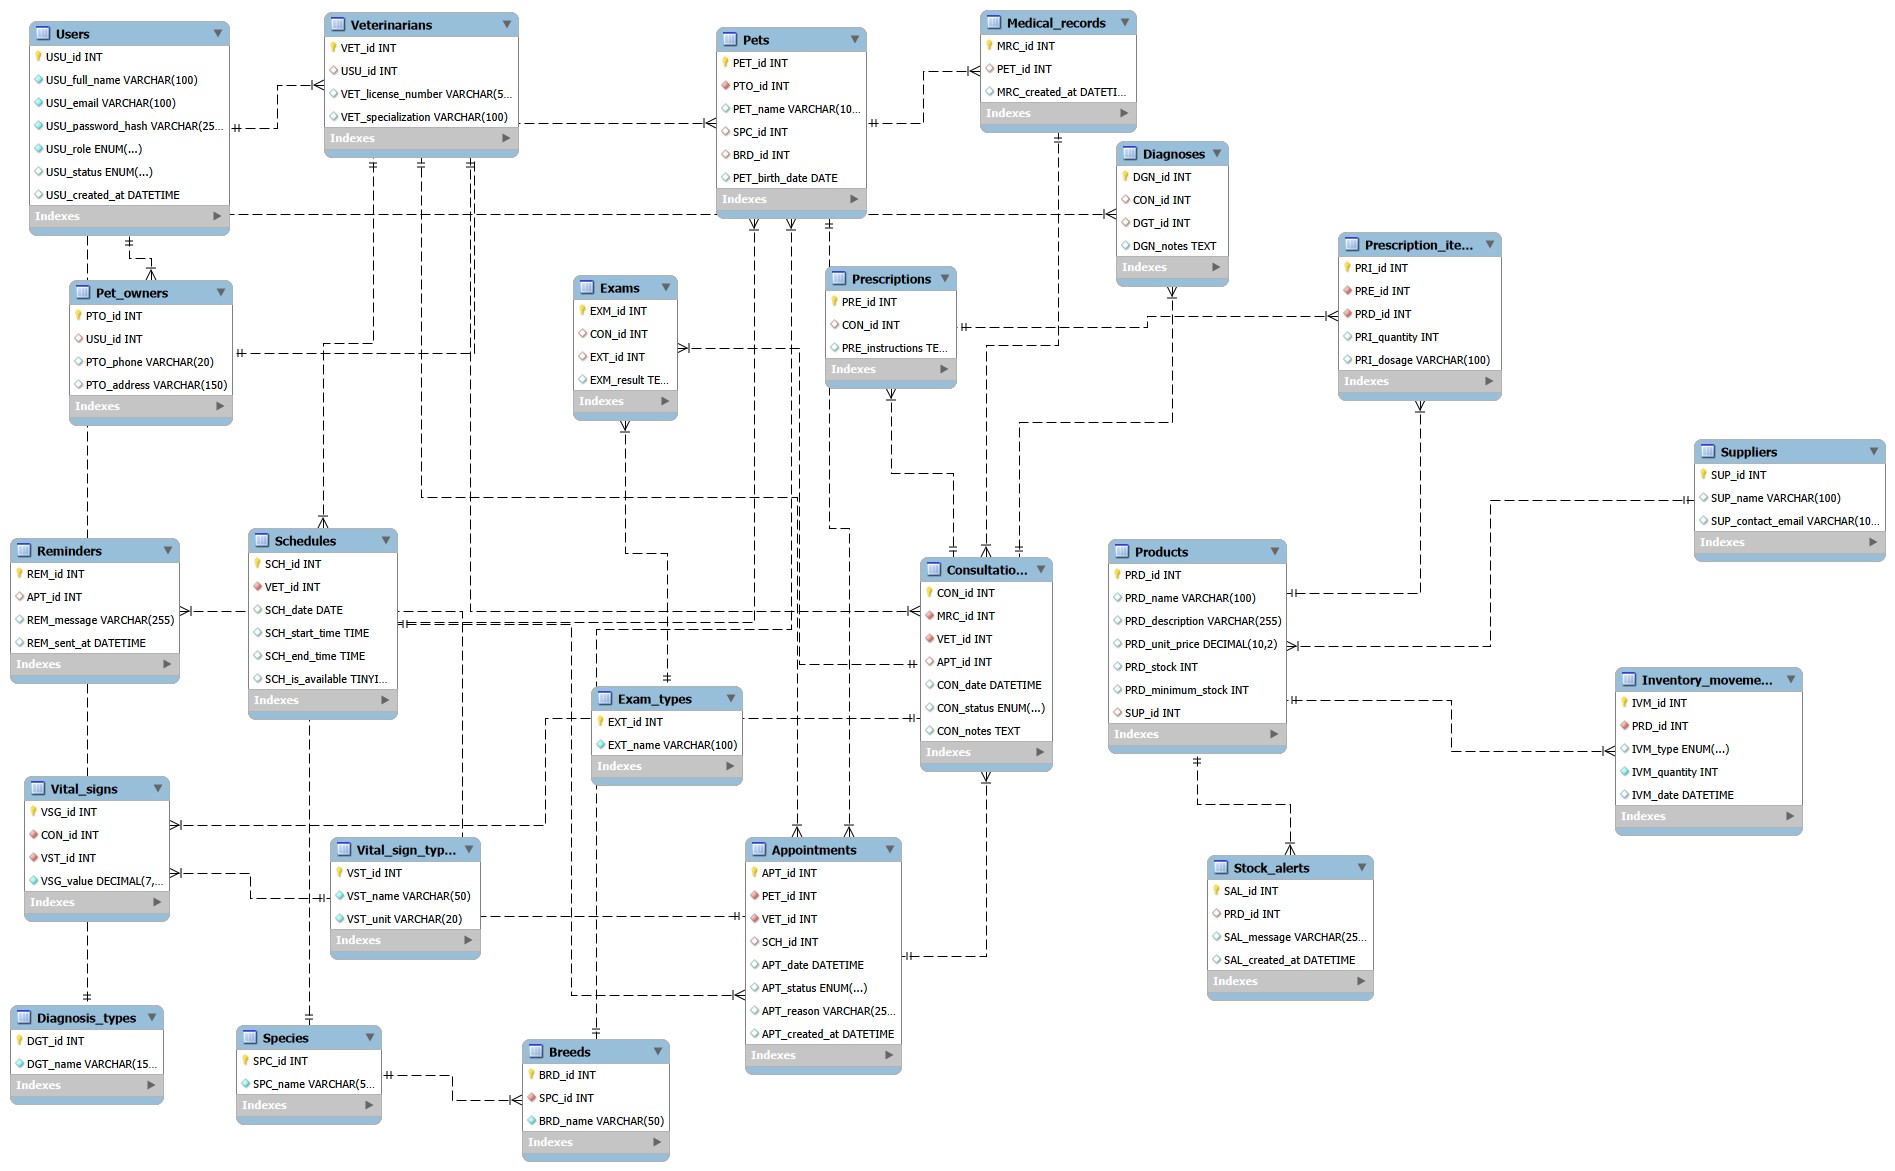
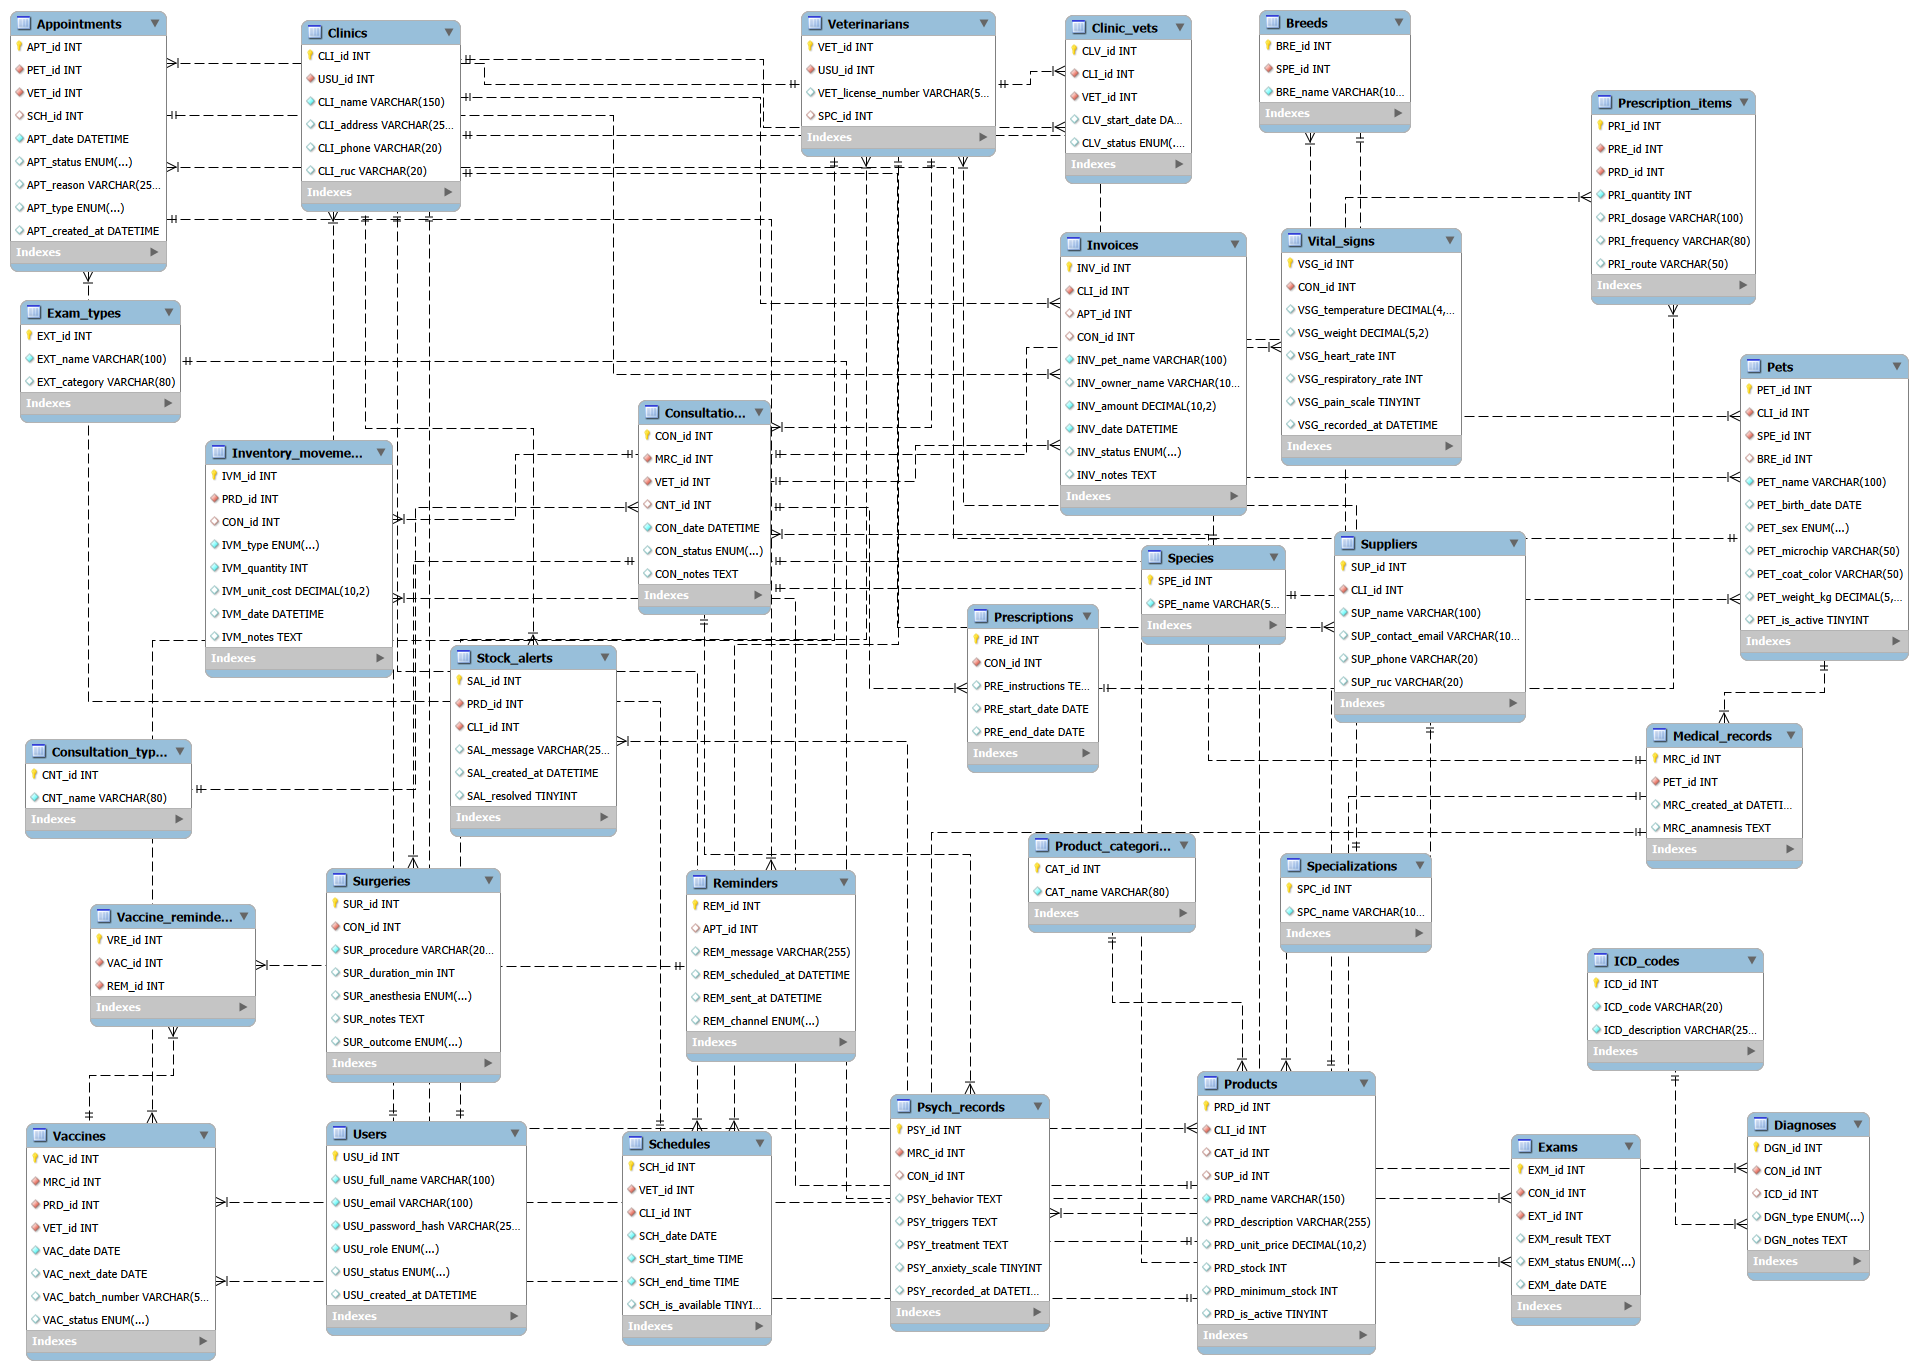
fix: correccion a class diagrams y database diagram

diff --git a/README.md b/README.md
@@ -2059,9 +2059,9 @@ Cada bounded context se estructura en capas (domain, application, infrastructure
 
 ### 4.7.1. Class Diagrams
 
-A continuación, se presentan los diagramas de clases UML para cada bounded context del sistema Pawtient. Estos diagramas describen las clases, sus atributos, métodos y relaciones, diferenciando además los componentes de frontend y backend.
+A continuación, se presentan los diagramas de clases UML para cada bounded context del sistema Pawtient. Estos diagramas describen las clases, sus atributos, métodos y relaciones, diferenciando los componentes de frontend y backend.
 
-Esta representación permite comprender la organización modular del sistema y la distribución de responsabilidades entre la interfaz de usuario y la lógica de negocio, asegurando coherencia con la arquitectura definida.
+Esta representación permite comprender la organización modular del sistema y la distribución de responsabilidades entre la interfaz de usuario y la lógica de negocio, asegurando coherencia con la arquitectura definida. El frontend está desarrollado en Vue.js con Pinia como manejador de estado, siguiendo una arquitectura en capas: domain, application, infrastructure y presentation. El backend está implementado en ASP .NET Core, organizando cada bounded context en entidades de dominio, comandos, servicios, repositorios y controladores REST.
 
 <br>
 
@@ -2069,31 +2069,31 @@ Esta representación permite comprender la organización modular del sistema y l
 
 <br>
 
-Este diagrama corresponde al Identity & Access Bounded Context, encargado de gestionar la autenticación y autorización de los usuarios dentro del sistema Pawtient. El agregado principal User administra la información esencial del usuario, incluyendo su identificador, correo electrónico, contraseña cifrada, rol y fecha de registro. Este contexto permite controlar el acceso al sistema mediante operaciones como registro, inicio de sesión y validación de credenciales. Además, el modelo considera diferentes roles (administrador, veterinario y dueño de mascota), los cuales determinan los permisos y funcionalidades disponibles dentro de la plataforma. En conjunto, este contexto garantiza la seguridad del sistema y el control adecuado de acceso a los recursos.
+Este diagrama corresponde al Identity & Access Bounded Context, encargado de gestionar la autenticación y autorización de los usuarios dentro del sistema Pawtient. La entidad principal User administra la información esencial del usuario, incluyendo su identificador, nombre, correo electrónico, contraseña, rol y plan de suscripción. El sistema contempla dos roles: administrador de clínica (`admin`) y veterinario independiente (`freelancer`), los cuales determinan las funcionalidades disponibles dentro de la plataforma. El flujo de registro incluye la selección de plan de suscripción como paso posterior al registro de cuenta.
 
 <br>
 <div align="center">
 
 **Frontend Components Diagrams**
 
-![Frontend Diagram BC1](pawtient-report/assets/images/class-diagrams/frontend/front-diagram-1.png)
+![Frontend Diagram BC1](pawtient-report/assets/images/class-diagrams/frontend/bc1-iam-frontend.png)
 
 </div>
 <br>
 
-El módulo IAM permite a los usuarios registrarse, iniciar sesión y gestionar su sesión activa. Incluye vistas como LoginView, RegisterView y ProfileView, junto con un AuthStore que maneja el estado de autenticación y la comunicación con la API mediante Observables.
+El módulo IAM en frontend permite a los usuarios registrarse, iniciar sesión y seleccionar su plan de suscripción. Incluye las vistas `LoginView`, `RegisterView` y `ChoosePlanView`, junto con los componentes `LoginForm` y `RegisterForm`. El `authStore` centraliza el estado de autenticación, gestiona la sesión mediante `localStorage` y coordina la comunicación con el backend a través de `AuthApi` y `UserAssembler`.
 
 <br>
 <div align="center">
 
 **Backend Components Diagrams**
 
-![Backend Diagram BC1](pawtient-report/assets/images/class-diagrams/backend/back-diagram-1.png)
+![Backend Diagram BC1](pawtient-report/assets/images/class-diagrams/backend/bc1-iam-backend.png)
 
 </div>
 <br>
 
-El módulo IAM gestiona la lógica de negocio relacionada con autenticación y control de acceso. Implementa comandos como registro e inicio de sesión, handlers para procesar dichas operaciones, repositorios para persistencia de usuarios y servicios de seguridad como generación de tokens JWT.
+El módulo IAM en backend gestiona la lógica de autenticación y control de acceso. Implementa comandos como `RegisterUserCommand` y `LoginUserCommand`, procesados por `AuthService`, que se encarga del hash de contraseñas y la generación de tokens JWT. El `UserRepository` gestiona la persistencia de usuarios mediante Entity Framework Core, y el `AuthController` expone los endpoints REST de registro, login, actualización de plan y eliminación de cuenta.
 
 <br>
 
@@ -2101,64 +2101,63 @@ El módulo IAM gestiona la lógica de negocio relacionada con autenticación y c
 
 <br>
 
-Este diagrama corresponde al contexto de gestión de citas, responsable de administrar la programación, modificación y cancelación de citas médicas para las mascotas. El agregado principal Appointment contiene información clave como la mascota asociada, el veterinario asignado, la fecha y el estado de la cita. Este contexto permite organizar la agenda de atención, asegurando un flujo ordenado de consultas dentro de la clínica. Además, el sistema contempla distintos estados de la cita (programada, cancelada, completada), lo que permite llevar un control preciso del ciclo de vida de cada atención.
-
-
-<br>
-<div align="center">
-
-**Frontend Components Diagrams**
-
-![Frontend Diagram BC2](pawtient-report/assets/images/class-diagrams/frontend/front-diagram-2.png)
-
-</div>
-<br>
-
-El módulo Appointments permite a los usuarios visualizar el calendario de citas, registrar nuevas citas y gestionar las existentes. Incluye componentes como AppointmentDashboard, AppointmentForm y AppointmentCard, junto con un AppointmentStore que gestiona el estado y sincroniza los datos con el backend.
-
-<br>
-<div align="center">
-
-**Backend Components Diagrams**
-
-![Backend Diagram BC2](pawtient-report/assets/images/class-diagrams/backend/back-diagram-2.png)
-
-</div>
-<br>
-
-El módulo Appointments gestiona la lógica de negocio relacionada con la programación de citas. Implementa comandos como creación y cancelación de citas, handlers para procesar estas acciones y repositorios para la persistencia de la información.
-
-<br>
-
-**2. Bounded Context: `Clinical Management`**
-
-<br>
-
-Este diagrama corresponde al contexto principal del sistema Pawtient, encargado de la gestión clínica de las mascotas. El agregado principal Pet representa al paciente veterinario, incluyendo información como nombre, especie, raza, fecha de nacimiento y su propietario. Este contexto incluye las entidades Consultation, que registra cada atención médica con diagnóstico y tratamiento, y MedicalRecord, que almacena el historial clínico completo de la mascota, incluyendo antecedentes, alergias y observaciones. En conjunto, este contexto permite centralizar toda la información médica del paciente, facilitando el seguimiento continuo de su estado de salud y la toma de decisiones clínicas.
+Este diagrama corresponde al contexto de gestión de citas, responsable de administrar la programación, modificación y cancelación de citas médicas para los pacientes. La entidad principal `Appointment` contiene información clave como el nombre de la mascota, el responsable, la fecha, la hora, el estado de la cita, el motivo de consulta y el monto asociado. El sistema contempla el estado `scheduled` como valor por defecto, permitiendo llevar un control preciso del ciclo de vida de cada atención y filtrar citas pendientes en tiempo real mediante propiedades computadas.
 
 <br>
 <div align="center">
 
 **Frontend Components Diagrams**
 
-![Frontend Diagram BC3](pawtient-report/assets/images/class-diagrams/frontend/front-diagram-3.png)
+![Frontend Diagram BC2](pawtient-report/assets/images/class-diagrams/frontend/bc2-appointments-frontend.png)
 
 </div>
 <br>
 
-El módulo Clinical Management permite a los usuarios gestionar mascotas, consultas y registros médicos. Incluye vistas como PetDashboardView, ConsultationView y MedicalRecordView, junto con componentes especializados como formularios y tarjetas. El estado es gestionado por ClinicStore, que coordina la comunicación con la API y mantiene sincronizados los datos clínicos.
+El módulo Appointments en frontend permite visualizar, registrar, editar y eliminar citas. El `appointmentsStore` gestiona el estado reactivo de las citas, expone la propiedad computada `pendingAppointments` para filtrar citas con estado `scheduled`, y coordina la comunicación con el backend a través de `AppointmentsApi` y `AppointmentAssembler`. La vista principal `ScheduleView` centraliza toda la interacción del usuario con la agenda.
 
 <br>
 <div align="center">
 
 **Backend Components Diagrams**
 
-![Backend Diagram BC3](pawtient-report/assets/images/class-diagrams/backend/back-diagram-3.png)
+![Backend Diagram BC2](pawtient-report/assets/images/class-diagrams/backend/bc2-appointments-backend.png)
 
 </div>
 <br>
 
-El módulo Clinical Management gestiona la lógica de negocio relacionada con pacientes, consultas y registros médicos. Implementa comandos como creación de consultas y actualización de historiales médicos, handlers para su procesamiento, servicios de consulta para recuperación de datos y repositorios para la persistencia de la información clínica.
+El módulo Appointments en backend gestiona la lógica de negocio relacionada con la programación de citas. Implementa los comandos `CreateAppointmentCommand` y `UpdateAppointmentCommand`, procesados por `AppointmentService`, que incluye la validación de disponibilidad de horarios. El `AppointmentRepository` gestiona la persistencia y el `AppointmentsController` expone los endpoints REST de consulta, creación, actualización y eliminación de citas.
+
+<br>
+
+**3. Bounded Context: `Clinical Management`**
+
+<br>
+
+Este diagrama corresponde al contexto principal de gestión clínica del sistema Pawtient. La entidad `Pet` representa al paciente veterinario, incluyendo nombre, tipo de especie, raza, edad y referencia al responsable. La entidad `Owner` almacena los datos de contacto del responsable de la mascota (nombre, DNI, teléfono) como dato administrativo sin acceso al sistema. Este contexto permite centralizar el registro y gestión de los pacientes de la clínica, facilitando el acceso rápido a su información durante cualquier consulta.
+
+<br>
+<div align="center">
+
+**Frontend Components Diagrams**
+
+![Frontend Diagram BC3](pawtient-report/assets/images/class-diagrams/frontend/bc3-clinic-frontend.png)
+
+</div>
+<br>
+
+El módulo Clinical Management en frontend permite registrar, editar y eliminar mascotas. El `clinicStore` gestiona el estado reactivo de los pacientes, filtrando siempre por `clinicId` del usuario activo, y coordina la comunicación con el backend a través de `ClinicApi` y `PetAssembler`. La vista `PatientsView` centraliza el listado de pacientes e incorpora el componente `PetCreateDialog`, que contiene el formulario `PetForm` para el registro detallado de mascotas.
+
+<br>
+<div align="center">
+
+**Backend Components Diagrams**
+
+![Backend Diagram BC3](pawtient-report/assets/images/class-diagrams/backend/bc3-clinic-backend.png)
+
+</div>
+<br>
+
+El módulo Clinical Management en backend gestiona la lógica de negocio relacionada con pacientes y sus responsables. Implementa los comandos `CreatePetCommand` y `UpdatePetCommand`, procesados por `PetService`. El `PetRepository` gestiona la persistencia de mascotas mediante Entity Framework Core, y el `PetsController` expone los endpoints REST de consulta, creación, actualización parcial (PATCH) y eliminación de pacientes.
 
 <br>
 
@@ -2166,31 +2165,31 @@ El módulo Clinical Management gestiona la lógica de negocio relacionada con pa
 
 <br>
 
-Este diagrama corresponde al contexto de gestión de inventario, encargado de administrar los productos, proveedores y movimientos de stock dentro de la clínica veterinaria. El agregado principal Product contiene información como nombre, descripción, precio y stock disponible. Además, el modelo incluye la entidad Supplier, que representa a los proveedores de insumos, y StockMovement, que registra las entradas y salidas de productos. Este contexto permite mantener un control preciso del inventario, evitando desabastecimientos y facilitando la gestión de recursos médicos.
+Este diagrama corresponde al contexto de gestión de inventario, encargado de administrar los productos e insumos médicos y los proveedores de la clínica. La entidad `Product` contiene nombre, stock actual, stock mínimo y precio, e incluye el método de dominio `isLowStock()` para detectar alertas de reabastecimiento. La entidad `Supplier` registra los datos de contacto y categoría de cada proveedor. Ambas entidades se filtran por `clinicId` para garantizar el aislamiento de datos entre clínicas.
 
 <br>
 <div align="center">
 
 **Frontend Components Diagrams**
 
-![Frontend Diagram BC4](pawtient-report/assets/images/class-diagrams/frontend/front-diagram-4.png)
+![Frontend Diagram BC4](pawtient-report/assets/images/class-diagrams/frontend/bc4-store-frontend.png)
 
 </div>
 <br>
 
-El módulo Store permite a los usuarios visualizar productos, registrar nuevos insumos y gestionar movimientos de inventario. Incluye vistas como InventoryDashboardView, ProductFormView y StockMovementView, junto con componentes reutilizables y un InventoryStore que maneja el estado de los productos y movimientos.
+El módulo Store en frontend gestiona dos recursos independientes: productos e inventario, y proveedores. El `storeStore` centraliza el estado de ambos recursos y coordina la comunicación con el backend a través de `StoreApi`, `ProductAssembler` y `SupplierAssembler`. Las vistas `InventoryView` y `SuppliersView` permiten visualizar, crear, editar y eliminar productos y proveedores respectivamente, con soporte para alertas visuales de stock bajo basadas en el método `isLowStock()`.
 
 <br>
 <div align="center">
 
 **Backend Components Diagrams**
 
-![Backend Diagram BC4](pawtient-report/assets/images/class-diagrams/backend/back-diagram-4.png)
+![Backend Diagram BC4](pawtient-report/assets/images/class-diagrams/backend/bc4-store-backend.png)
 
 </div>
 <br>
 
-El módulo Store gestiona la lógica de negocio relacionada con productos y control de inventario. Implementa comandos como creación de productos y registro de movimientos, handlers correspondientes y repositorios para la persistencia de datos.
+El módulo Store en backend gestiona la lógica de negocio de inventario y proveedores en servicios independientes. `ProductService` implementa la detección de stock bajo mediante `GetLowStockAlerts`, mientras que `SupplierService` gestiona el ciclo de vida completo de proveedores. Cada servicio cuenta con su propio repositorio (`ProductRepository`, `SupplierRepository`) y controlador REST (`ProductsController`, `SuppliersController`), manteniendo una separación clara de responsabilidades.
 
 <br>
 
@@ -2198,31 +2197,31 @@ El módulo Store gestiona la lógica de negocio relacionada con productos y cont
 
 <br>
 
-Este diagrama corresponde al contexto de reportes y gestión financiera, encargado de generar informes y controlar la facturación dentro del sistema. El agregado principal Report permite generar distintos tipos de reportes sobre el funcionamiento de la clínica, mientras que la entidad Billing gestiona la información financiera, incluyendo montos, fechas y transacciones. Este contexto permite obtener una visión global del rendimiento del negocio, facilitando la toma de decisiones estratégicas y el control económico.
+Este diagrama corresponde al contexto de reportes y facturación, encargado de consolidar la información financiera y operativa de la clínica. La entidad `ReportSummary` agrega los indicadores clave del negocio: ingresos totales, gastos de inventario, rentabilidad neta, alertas de stock bajo y número de citas atendidas. La entidad `InvoiceEntity` registra las boletas de pago asociadas a cada atención, con soporte para generación y descarga de PDF mediante la librería jsPDF.
 
 <br>
 <div align="center">
 
 **Frontend Components Diagrams**
 
-![Frontend Diagram BC5](pawtient-report/assets/images/class-diagrams/frontend/front-diagram-5.png)
+![Frontend Diagram BC5](pawtient-report/assets/images/class-diagrams/frontend/bc5-reports-frontend.png)
 
 </div>
 <br>
 
-El módulo Reports permite a los usuarios generar reportes y visualizar información financiera. Incluye vistas como ReportView y BillingView, junto con un ReportStore que gestiona los datos y coordina la comunicación con el backend.
+El módulo Reports en frontend consolida datos de múltiples bounded contexts para generar el reporte general de la clínica. El `reportsStore` combina información de citas e inventario para calcular el `ReportSummary`, gestiona el ciclo de vida de las boletas de pago y expone la función `downloadInvoicePdf` para la descarga de comprobantes en formato PDF. La vista `ReportsView` centraliza la visualización de KPIs y el historial de boletas.
 
 <br>
 <div align="center">
 
 **Backend Components Diagrams**
 
-![Backend Diagram BC5](pawtient-report/assets/images/class-diagrams/backend/back-diagram-5.png)
+![Backend Diagram BC5](pawtient-report/assets/images/class-diagrams/backend/bc5-reports-backend.png)
 
 </div>
 <br>
 
-El módulo Reports gestiona la lógica de negocio relacionada con la generación de reportes y facturación. Implementa comandos para la generación de reportes, handlers para su procesamiento y repositorios para el almacenamiento de la información.
+El módulo Reports en backend gestiona la generación de reportes financieros y el ciclo de vida de las boletas de pago. El `ReportService` consolida datos de citas e inventario para generar el `ReportSummary`, y gestiona la creación y eliminación de facturas a través del `InvoiceRepository`. El `ReportsController` expone endpoints REST para consultar el resumen general, listar boletas, registrar nuevos pagos y eliminar registros.
 
 <br>
 
@@ -2230,31 +2229,44 @@ El módulo Reports gestiona la lógica de negocio relacionada con la generación
 
 <br>
 
-Este diagrama corresponde al contexto de gestión de perfil de usuario, encargado de administrar la información personal de los usuarios dentro del sistema. El agregado principal Profile contiene datos como nombre, correo electrónico y la relación con el usuario del sistema. Este contexto permite a los usuarios actualizar su información personal y mantener sus datos actualizados dentro de la plataforma.
+Este diagrama corresponde al contexto de gestión de perfil de usuario, encargado de administrar la información personal de los profesionales registrados en el sistema. La entidad `Profile` almacena nombre, apellido, correo electrónico y dirección, derivada de campos separados (calle, número, ciudad) mediante lógica de dominio. Este contexto comparte el endpoint de usuarios con el bounded context IAM, dado que el perfil se construye sobre los datos del usuario autenticado.
 
 <br>
 <div align="center">
 
 **Frontend Components Diagrams**
 
-![Frontend Diagram BC6](pawtient-report/assets/images/class-diagrams/frontend/front-diagram-6.png)
+![Frontend Diagram BC6](pawtient-report/assets/images/class-diagrams/frontend/bc6-profiles-frontend.png)
 
 </div>
 <br>
 
-El módulo Profile permite a los usuarios visualizar y actualizar su información personal. Incluye la vista ProfileView y un ProfileStore que gestiona el estado del perfil y la comunicación con la API.
+El módulo Profile en frontend permite visualizar y actualizar la información personal del profesional activo. El `profilesStore` carga el perfil por correo electrónico y coordina la comunicación con el backend a través de `ProfilesApi` y `ProfileAssembler`. La vista `ProfileView` integra los componentes `ProfileDetails` para la visualización y `ProfileEditForm` para la edición de datos.
 
 <br>
 <div align="center">
 
 **Backend Components Diagrams**
 
-![Backend Diagram BC6](pawtient-report/assets/images/class-diagrams/backend/back-diagram-6.png)
+![Backend Diagram BC6](pawtient-report/assets/images/class-diagrams/backend/bc6-profiles-backend.png)
 
 </div>
 <br>
 
-El módulo Profile gestiona la lógica de negocio relacionada con la actualización de perfiles de usuario. Implementa comandos de actualización, handlers y repositorios para la persistencia de datos.
+El módulo Profile en backend gestiona la lógica de actualización de perfiles de usuario. El `ProfileService` expone operaciones de consulta por correo electrónico y por identificador de usuario, y delega la persistencia en el `ProfileRepository`. El `ProfilesController` expone endpoints REST para consultar y actualizar el perfil del profesional autenticado mediante operaciones PATCH.
+
+<br>
+
+<div align="center">
+
+**Shared Frontend Diagram**
+
+![Shared Frontend Diagram](pawtient-report/assets/images/class-diagrams/frontend/shared.png)
+
+</div>
+<br>
+
+El módulo compartido (`shared`) provee la infraestructura base de comunicación HTTP para todos los bounded contexts del frontend. `BaseApi` encapsula la instancia de Axios configurada con la URL base del entorno, mientras que `BaseEndpoint` estandariza las operaciones CRUD (`getAll`, `getById`, `create`, `update`, `delete`) que heredan todas las clases de API del sistema. Las vistas compartidas incluyen `Layout` con el sidebar de navegación, `HomeView` como pantalla de inicio post-login, `LanguageSwitcher` para soporte multiidioma y `PageNotFound` para el manejo de rutas inexistentes.
 
 <br>
 
@@ -2271,19 +2283,17 @@ El modelo incluye tablas con atributos definidos bajo una nomenclatura uniforme,
 
 ### 4.8.1. Database Diagrams
 
->*El diagrama de base de datos de Pawtient refleja una arquitectura orientada al dominio, organiza los bounded contexts, cada uno responsable de un conjunto cohesivo de entidades. Para su elaboración se utilizó MySQL Workbench, herramienta que permitió diseñar, visualizar y estructurar las tablas, columnas y relaciones del sistema de manera clara.
-Aunque el modelo es único a nivel físico, en el diagrama las tablas se agrupan visualmente según el bounded context al que pertenecen, lo que facilita la comprensión de la estructura del sistema sin generar duplicación de datos.*
+>*El diagrama de base de datos de Pawtient refleja una arquitectura orientada al dominio y organiza las entidades según los bounded contexts del sistema. Para su elaboración se utilizó MySQL Workbench, herramienta que permitió diseñar, visualizar y estructurar las tablas, columnas y relaciones de forma clara. Aunque el modelo es único a nivel físico, las tablas se agrupan visualmente según el bounded context al que pertenecen, lo que facilita la comprensión de la estructura sin generar duplicación de datos.*
 
 <br>
 
 <div align="center">
-  
 
 **`Database Diagram`**
 
 <br>
 
-![Database Diagram](pawtient-report/assets/images/database-diagram/database-diagram.png)
+![Database Diagram](pawtient-report/assets/images/database-diagram/database.png)
 
 </div>
 
@@ -2293,13 +2303,19 @@ Aunque el modelo es único a nivel físico, en el diagrama las tablas se agrupan
 
 <br>
 
-La base de datos de Pawtient está diseñada en MySQL bajo el esquema de normalización en Tercera Forma Normal (3FN) y gestiona dos segmentos de usuario: administradores de clínica veterinaria y veterinarios.
-El módulo de identidad y acceso centraliza la autenticación en la tabla Users, desde la cual se extienden los perfiles Clinics (administradores) y Veterinarians (con especialización referenciada mediante catálogo). La relación entre veterinarios y clínicas es de muchos a muchos, resuelta a través de Clinic_vets.
-El módulo de pacientes registra las mascotas asociadas a cada clínica. La especie y la raza están desacopladas en tablas Species y Breeds, eliminando la dependencia transitiva que existía al almacenar ambos datos como texto libre en la tabla de mascotas.
-La historia clínica se articula alrededor de Medical_records, que actúa como raíz permanente del expediente de cada paciente. A partir de ella se ramifican las Consultations, que a su vez concentran los signos vitales, diagnósticos (referenciados a un catálogo de códigos ICD_codes), prescripciones, exámenes de laboratorio e imagen, y cirugías. El módulo incluye además registros independientes de vacunación (Vaccines) y de psicología animal (Psych_records), ambos vinculados a la historia clínica.
-El módulo de citas combina Schedules (bloques de disponibilidad por veterinario y clínica), Appointments (la cita concreta con tipo, estado y razón) y Reminders (notificaciones multicanal asociadas a cada cita).
-Finalmente, el módulo de inventario gestiona productos clasificados por categoría y proveedor, registra los movimientos de entrada, salida y ajuste mediante Inventory_movements —vinculados opcionalmente a una consulta para trazabilidad de consumo clínico— y genera alertas automáticas de stock mínimo a través de Stock_alerts. Las prescripciones enlazan directamente con los productos del inventario a través de Prescription_items, cerrando el ciclo entre la atención clínica y el control de insumos.
-En total el esquema comprende 28 tablas, organizadas en cinco módulos cohesivos: IAM, Mascotas, Historia Clínica, Citas e Inventario.
+La base de datos de Pawtient está diseñada en MySQL bajo el esquema de normalización en Tercera Forma Normal (3FN) y gestiona dos segmentos de usuario: administradores de clínica veterinaria y veterinarios independientes. En total el esquema comprende **31 tablas** organizadas en **seis módulos cohesivos**: IAM, Mascotas, Historia Clínica, Citas y Agenda, Inventario y Facturación.
+
+El **módulo IAM** (5 tablas) centraliza la autenticación en `Users`, desde la cual se extienden los perfiles `Clinics` (para administradores) y `Veterinarians` (con especialización referenciada mediante el catálogo `Specializations`). La relación entre veterinarios y clínicas es de muchos a muchos, resuelta a través de `Clinic_vets`, lo que permite que un veterinario trabaje en múltiples clínicas sin duplicar su registro.
+
+El **módulo de Mascotas** (3 tablas) registra los pacientes asociados a cada clínica mediante `Pets`. La especie y la raza están desacopladas en tablas independientes `Species` y `Breeds`, eliminando la dependencia transitiva que existiría al almacenar ambos valores como texto libre en la tabla de mascotas. La raza admite valor nulo para registrar animales mestizos.
+
+El **módulo de Historia Clínica** es el más extenso del sistema con 13 tablas. Se articula alrededor de `Medical_records`, que actúa como raíz permanente del expediente de cada paciente en relación 1:1 con `Pets`. A partir de ella se ramifican las `Consultations`, que concentran los signos vitales (`Vital_signs`), diagnósticos referenciados al catálogo `ICD_codes` (`Diagnoses`), prescripciones con sus ítems de medicación (`Prescriptions`, `Prescription_items`), tipos y resultados de exámenes complementarios (`Exam_types`, `Exams`) y cirugías derivadas de una consulta en relación 1:1 (`Surgeries`). El módulo incluye además registros independientes de vacunación (`Vaccines`) y de psicología animal (`Psych_records`), ambos vinculados directamente a la historia clínica del paciente.
+
+El **módulo de Citas y Agenda** (4 tablas) combina `Schedules` para definir los bloques de disponibilidad horaria por veterinario y clínica, `Appointments` para registrar la cita concreta con tipo, estado y motivo, y `Reminders` para las notificaciones multicanal asociadas a cada cita. La tabla `Vaccine_reminders` vincula los recordatorios directamente a las vacunas registradas, permitiendo alertas automáticas cuando se aproxima la fecha de la próxima dosis.
+
+El **módulo de Inventario** (5 tablas) gestiona productos clasificados por categoría (`Product_categories`) y proveedor (`Suppliers`), ambos con alcance por clínica mediante `CLI_id`. Los movimientos de entrada, salida y ajuste se registran en `Inventory_movements`, vinculados opcionalmente a una consulta para trazabilidad de consumo clínico. Las alertas automáticas de stock mínimo se gestionan mediante `Stock_alerts`, también scoped a nivel de clínica. Las prescripciones enlazan con los productos del inventario a través de `Prescription_items`, cerrando el ciclo entre la atención clínica y el control de insumos.
+
+El **módulo de Facturación** (1 tabla) registra las boletas de pago mediante `Invoices`, asociadas a la clínica y opcionalmente a una cita o consulta. Incluye campos desnormalizados de nombre de mascota y responsable para facilitar la generación de reportes sin requerir joins adicionales, soporte requerido por el módulo de reportes del sistema.
 
 <br>
 